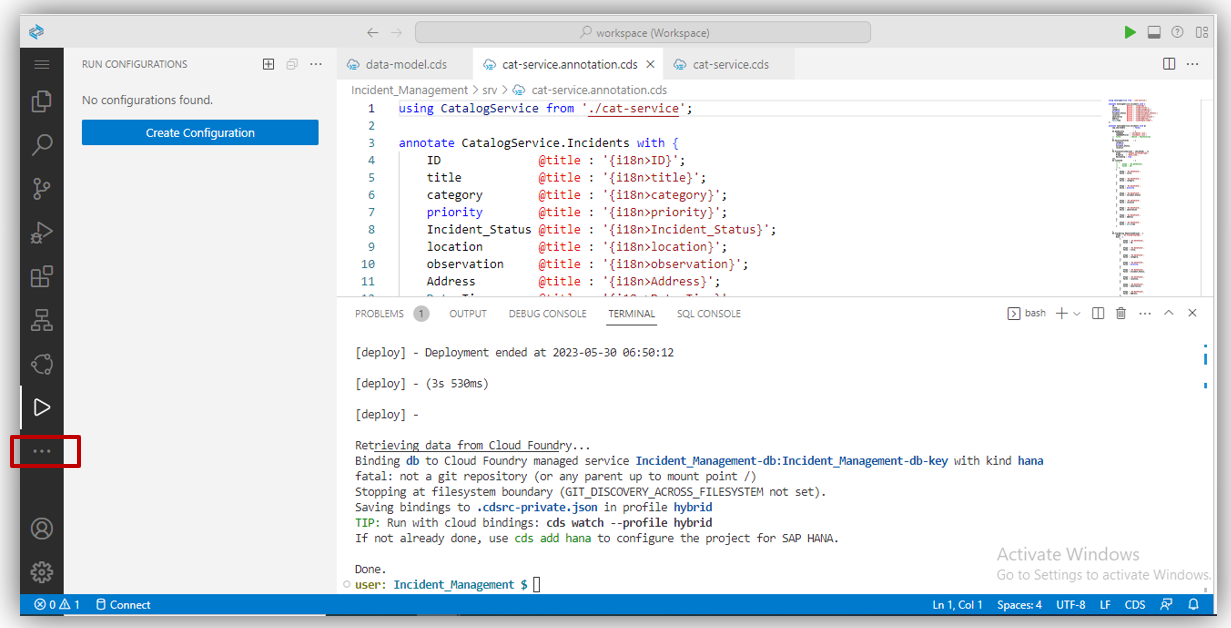
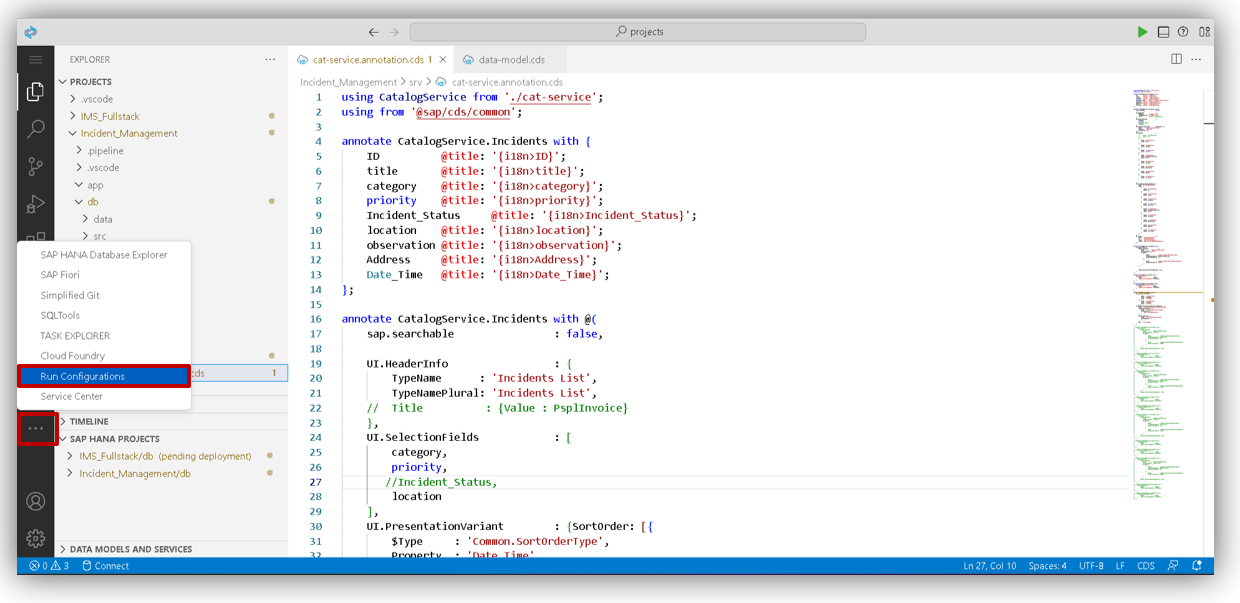
aa

Changed region(s): [[0.0, 0.0, 1.0, 1.0]]

diff --git a/exercises/2_Create CAP Based Application/Readme.md b/exercises/2_Create CAP Based Application/Readme.md
@@ -257,18 +257,22 @@ cds deploy --to hana
 
 2. Click on <b>Create Configuration</b> <br><br>![Start Template](images/24.png)<br>
 
-3. After that you will get pop up Click on that and press enter <br><br>![Start Template](images/25.png)<br>
+3. After that you will get pop up Click on that and press enter. Now you can able to see Created Database Configuration open that folder and highlighted section in <b>db-hana</b> <br><br>![Start Template](images/25.png)<br>
 
-4. Now you can able to see Created Database Configuration open that folder and click on  bind <b>db-hana</b> <br><br>![Start Template](images/25.png)<br>
+4. You will get pop up Click on <b>Project_Name-db hana(hdi-shared)</b> <br><br>![Start Template](images/34.png)<br>
 
-5. On left side you can able to see <b>mta.yml</b> file right click on that and select <b>Built MTA Project</b> <br><br>![Start Template](images/26.png)<br> <br><br>![Start Template](images/27.png)<br> 
+5. Click on <b>Yes</b> <br><br>![Start Template](images/35.png)<br>
 
-6. On left side <b>mta archives</b> folder will be created open <b>mta archives</b> inside that <b>Project_name.mtar</b> file able to see  right click on that and select <b>Deploy MTA Archive</b> <br><br>
+6. Now you are successfuly conected to  <b>Hana Database</b> <br><br>![Start Template](images/35.png)<br>
+
+7. On left side you can able to see <b>mta.yml</b> file right click on that and select <b>Built MTA Project</b> <br><br>![Start Template](images/26.png)<br> <br><br>![Start Template](images/27.png)<br> 
+
+8. On left side <b>mta archives</b> folder will be created open <b>mta archives</b> inside that <b>Project_name.mtar</b> file able to see  right click on that and select <b>Deploy MTA Archive</b> <br><br>
 ![Start Template](images/28.png)<br> <br><br>![Start Template](images/29.png)<br> 
 
-7. After Deployment on project you will get service link as shown in below<br><br>![Start Template](images/31.png)<br>
+9. After Deployment on project you will get service link as shown in below<br><br>![Start Template](images/31.png)<br>
 
-8. Copy Service link and paste in new tab of browser and press enter.  <br><br>![Start Template](images/32.png)<br>
+10. Copy Service link and paste in new tab of browser and press enter.  <br><br>![Start Template](images/32.png)<br>
 
 ## Summary <a name="summary"></a>
 
